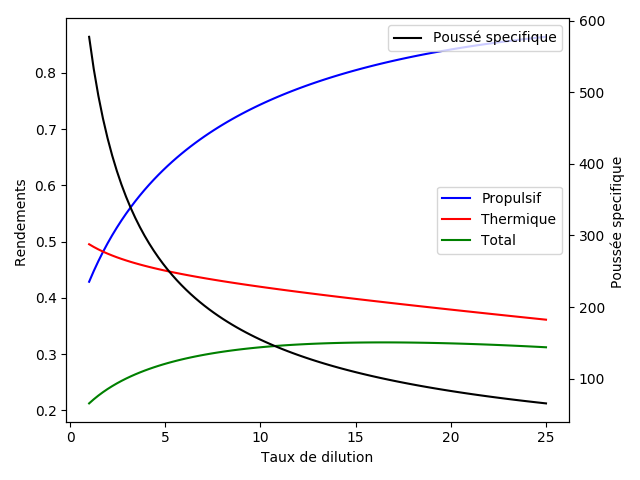
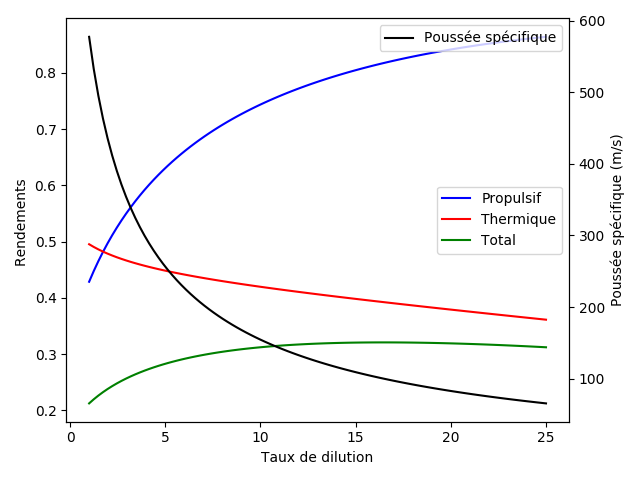
changes

Changed region(s): [[0.9375, 0.2812, 0.9688, 0.6562], [0.6562, 0.0625, 0.875, 0.0938], [0.5938, 0.0625, 0.625, 0.0938]]

diff --git a/Propulsion Turbofan/comp.py b/Propulsion Turbofan/comp.py
@@ -52,7 +52,7 @@ array_total=[]
 
 
 
-for r_comp in np.linspace(20,80,100):
+for r_comp in np.linspace(5,80,100):
 	
 
 	#intake
@@ -171,12 +171,12 @@ ax1.set_xlabel('Taux de compression')
 ax1.set_ylabel('Rendements ', color=color)
 ax1.tick_params(axis='y', labelcolor=color)
 
-fig1=plt.legend(loc='center left')
+fig1=plt.legend(loc='upper right')
 
 ax2=ax1.twinx()
 
-ax2.set_ylabel('Poussée specifique ', color=color)
-ax2.plot(array_t_max,array_specific,'k',label='Poussé specifique')
+ax2.set_ylabel('Poussée spécifique (m/s)', color=color)
+ax2.plot(array_t_max,array_specific,'k',label='Poussée spécifique')
 
 fig1=plt.legend(loc='center right')
 

diff --git a/Propulsion Turbofan/bypass.py b/Propulsion Turbofan/bypass.py
@@ -176,8 +176,8 @@ fig1=plt.legend(loc='center right')
 
 ax2=ax1.twinx()
 
-ax2.set_ylabel('Poussée specifique ', color=color)
-ax2.plot(array_t_max,array_specific,'k',label='Poussé specifique')
+ax2.set_ylabel('Poussée spécifique (m/s)', color=color)
+ax2.plot(array_t_max,array_specific,'k',label='Poussée spécifique')
 
 fig1=plt.legend(loc='upper right')
 

diff --git a/Propulsion Turbofan/propu.py b/Propulsion Turbofan/propu.py
@@ -174,8 +174,8 @@ fig1=plt.legend(loc='center left')
 
 ax2=ax1.twinx()
 
-ax2.set_ylabel('Poussée specifique ', color=color)
-ax2.plot(array_t_max,array_specific,'k',label='Poussé specifique')
+ax2.set_ylabel('Poussée spécifique (m/s)', color=color)
+ax2.plot(array_t_max,array_specific,'k',label='Poussée spécifique')
 
 fig1=plt.legend(loc='best')
 
